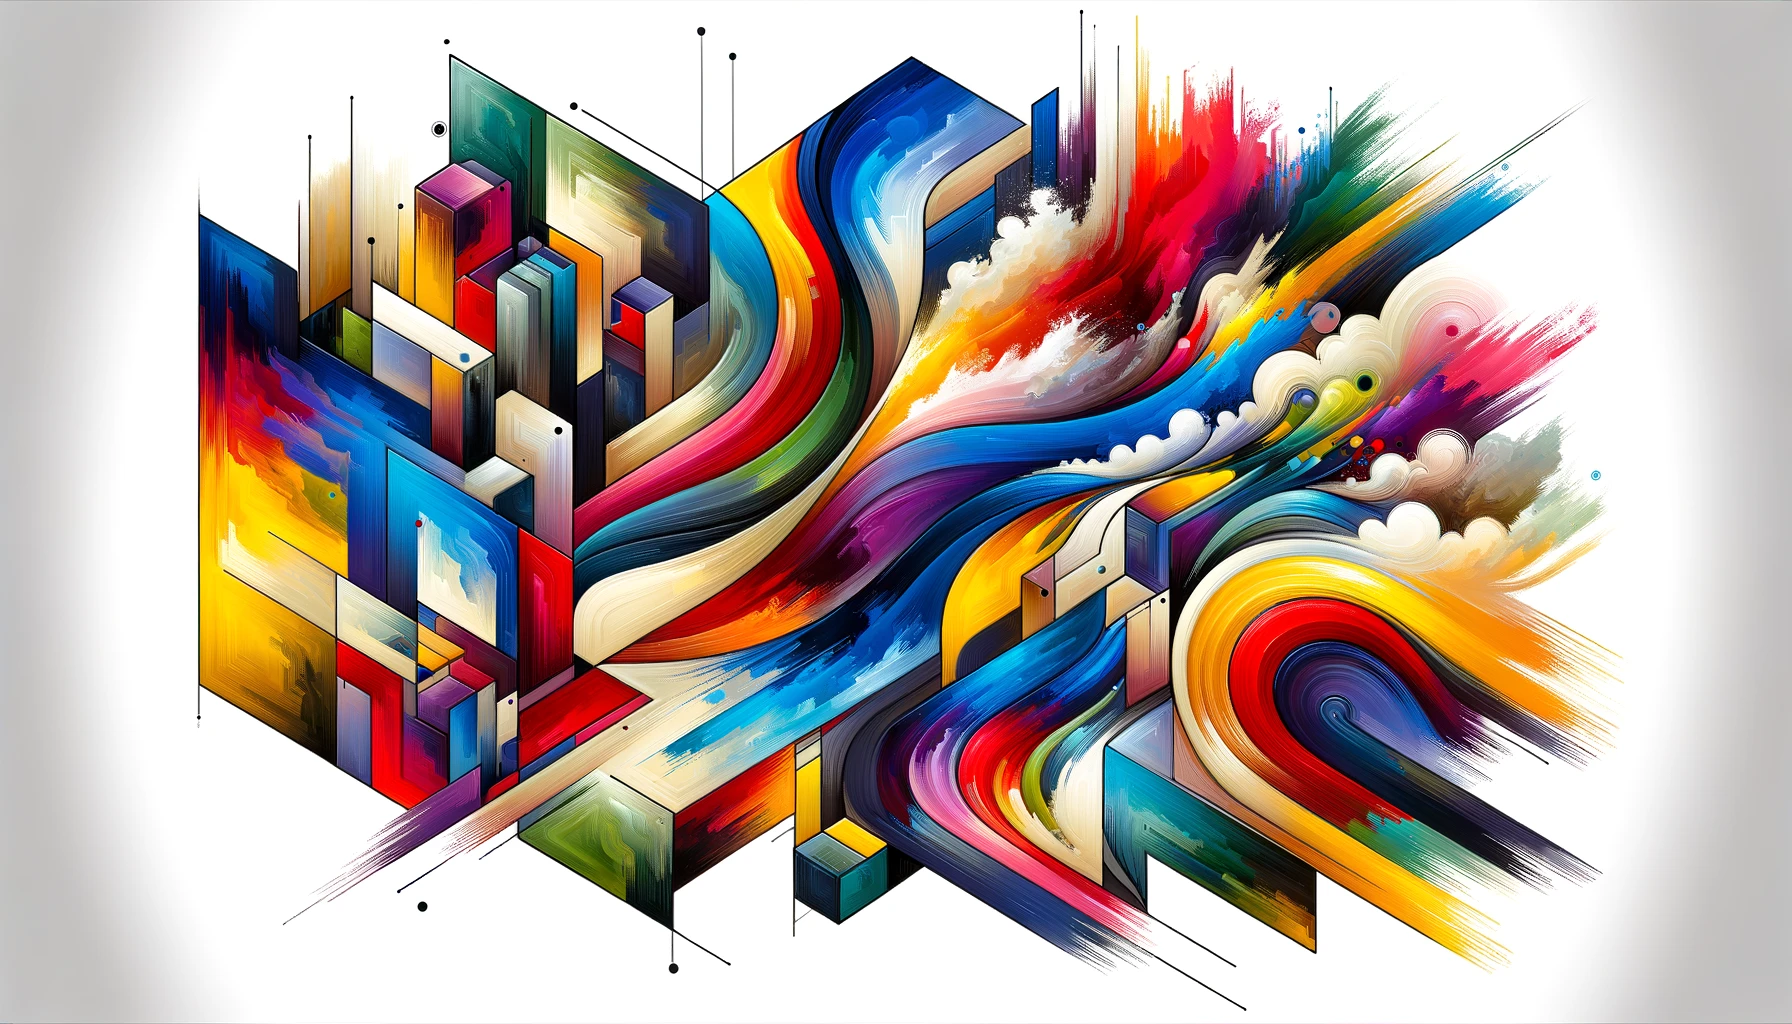
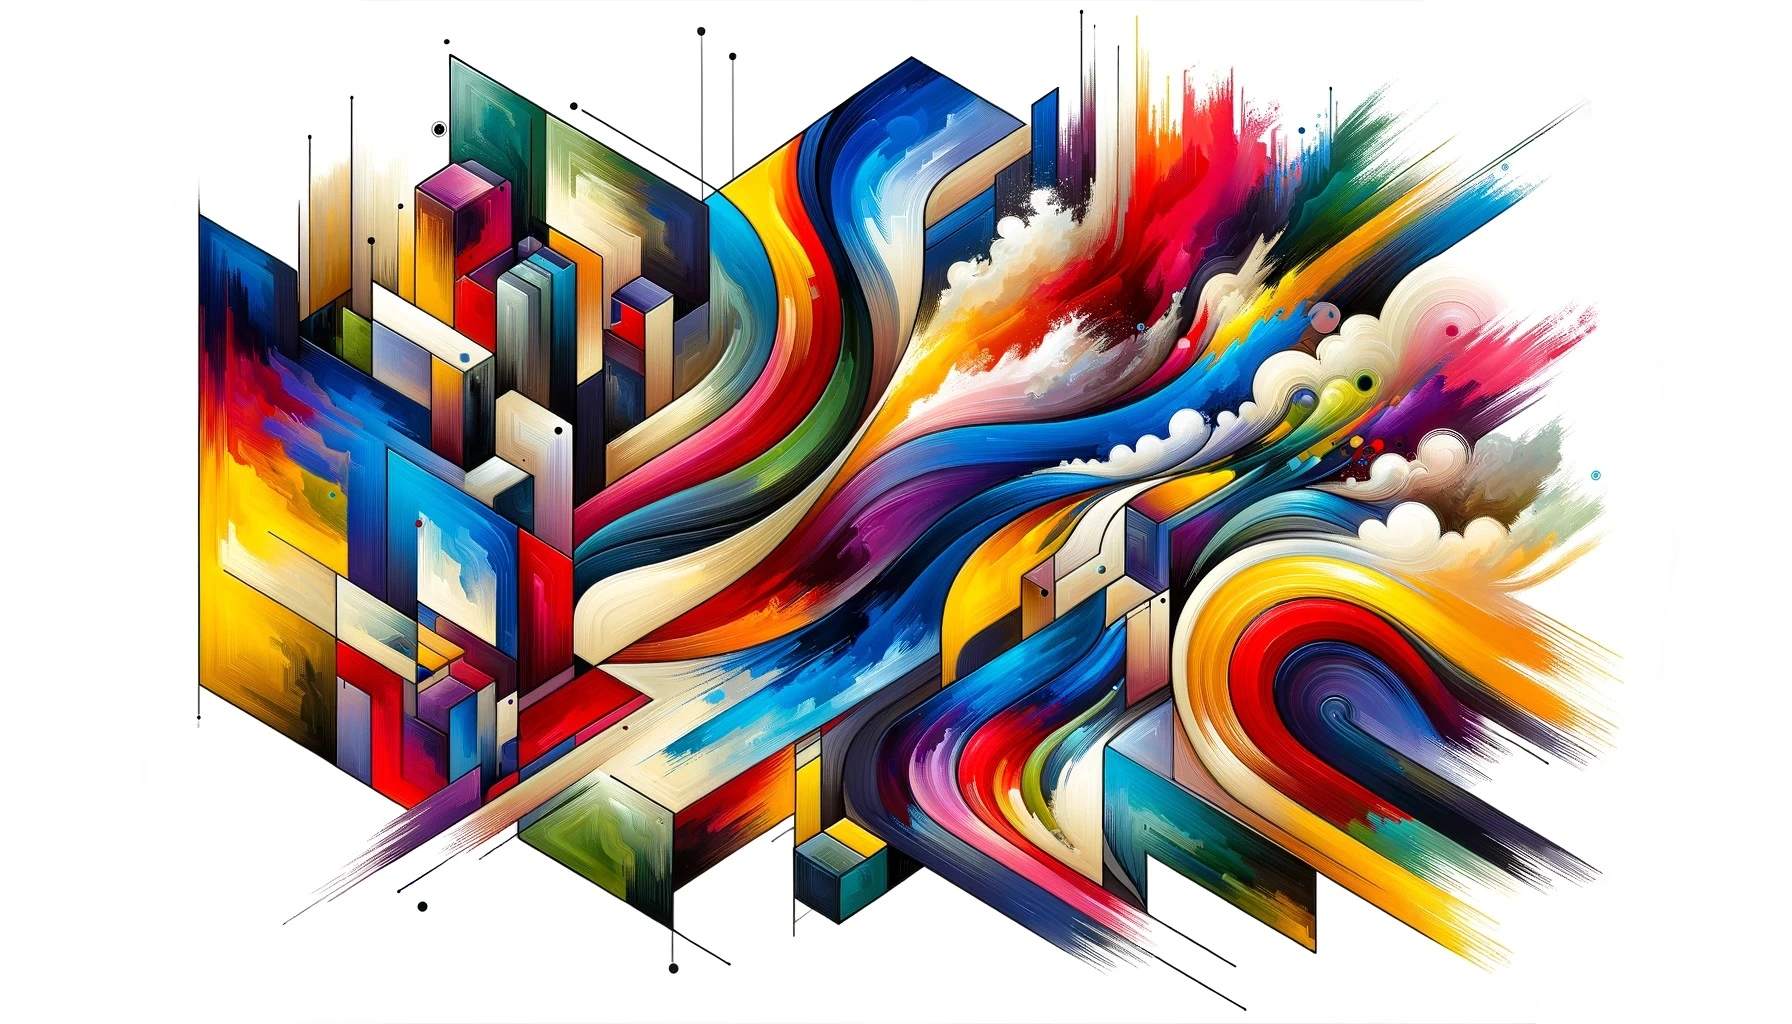
meest recente versie

Changed region(s): [[0.875, 0.0, 1.0, 1.0], [0.0, 0.0, 0.125, 1.0]]

diff --git a/src/lib/components/repos.svelte b/src/lib/components/repos.svelte
@@ -148,7 +148,7 @@
 
 	.other {
 		font-family: Arial, sans-serif;
-		background: #f4f4f9;
+		background: rgb(67, 67, 67);
 		color: #333;
 		padding: 1.25rem;
 		margin: 0;
@@ -157,6 +157,7 @@
 
 	.other h1 {
 		margin-bottom: 2rem;
+		color: white;
 	}
 
 	@keyframes animate {

diff --git a/src/app.html b/src/app.html
@@ -49,7 +49,7 @@
 
 	.repository {
 		background: white;
-		box-shadow: 0 0.125rem 0.3125rem rgba(0, 0, 0, 0.1);
+		box-shadow: 0 0.125rem 0.3125rem black;
 		width: 20rem;
 		padding: 1.25rem;
 		border-radius: 0.5rem;

diff --git a/src/routes/+page.svelte b/src/routes/+page.svelte
@@ -90,7 +90,7 @@
 	</div>
 	<div class="website-content">
 		<div class="img-holder">
-			<img src="./bg.jpg" alt="" />
+			<img src="./bg.webp" alt="" />
 		</div>
 
 		<div class="content-holder">
